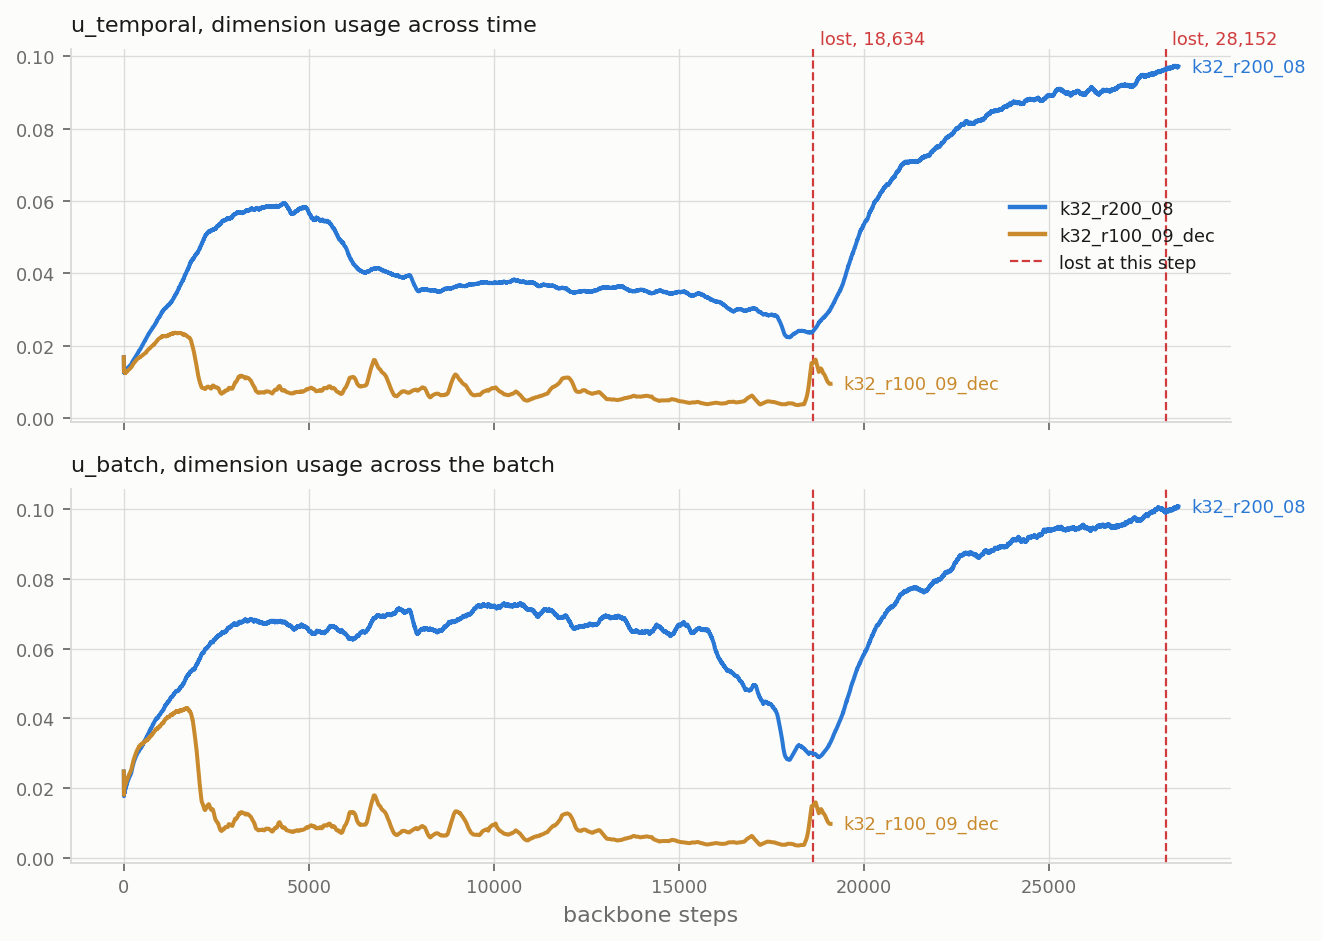
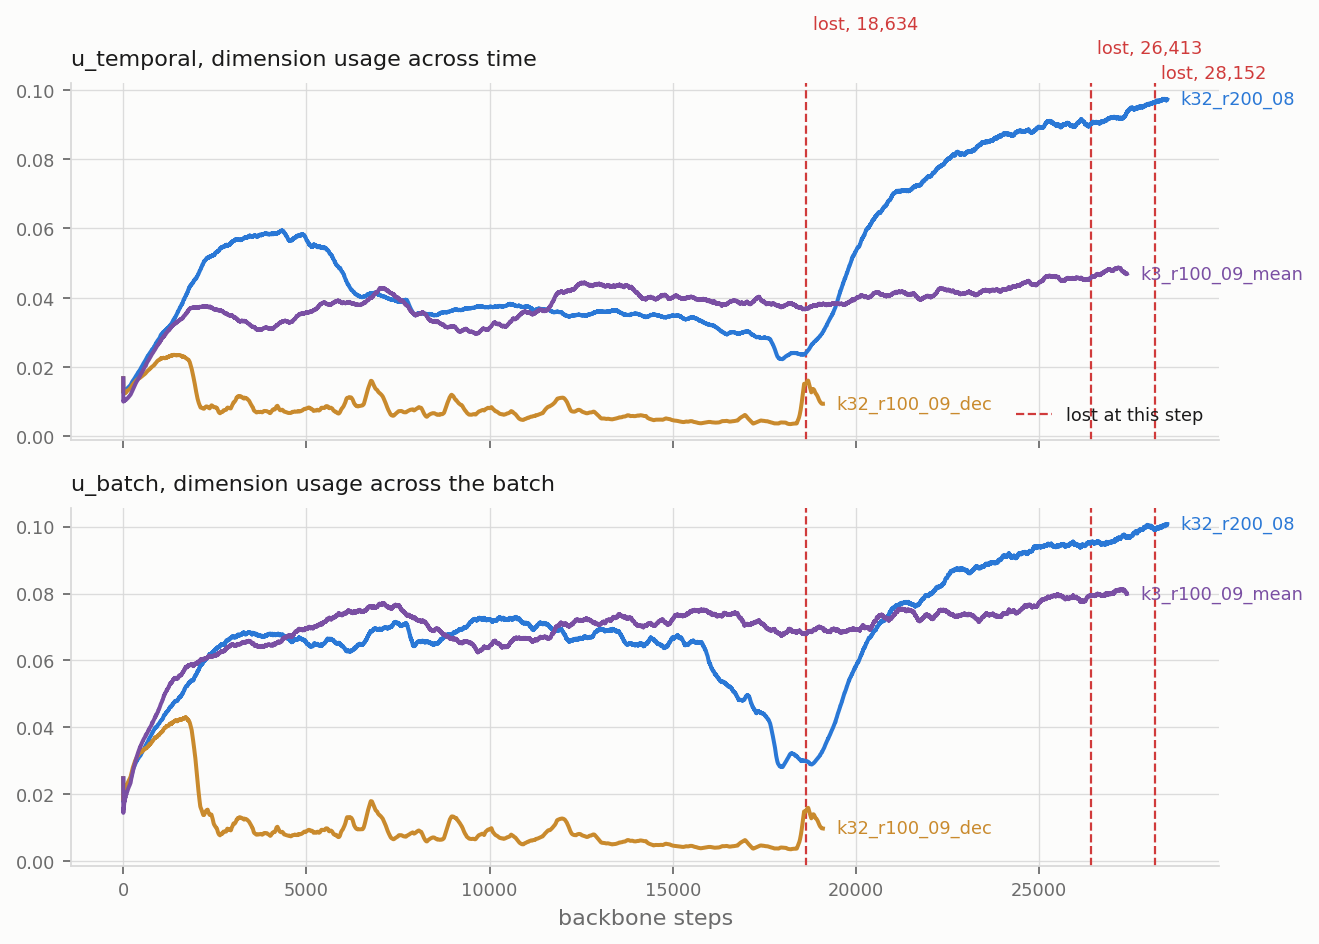
report(#412): the third stopped arm joins the dimension-usage figure
`k3_r100_09_mean` is the pass-2 arm that moves the reduction alone, and the
guard stopped it at 26,413 steps. It now draws beside the two k = 32 arms.

WHAT IT SHOWS. The three take three different paths. `k32_r100_09_dec` falls
to near-zero usage, `k32_r200_08` rises, and `k3_r100_09_mean` holds a
mid-range value in both statistics to its stop. So `u_temporal` and `u_batch`
do not tell you which arm loses the task.

`plot_lost_uniformity.py` took its arms from a hard-coded pair at k = 32.
The list now carries the k per arm. The figure also dropped its arm key,
which sat over a direct label, and it stacks the stop-step labels that
collided.

diff --git a/reports/2026-09-06_moirai_small_size/scripts/plot_lost_uniformity.py b/reports/2026-09-06_moirai_small_size/scripts/plot_lost_uniformity.py
@@ -1,7 +1,7 @@
 #!/usr/bin/env python3
-"""The dimension usage of the two stopped arms, step by step.
+"""The dimension usage of the stopped arms, step by step.
 
-WHY THIS FIGURE EXISTS. The two arms the guard stopped do not share one
+WHY THIS FIGURE EXISTS. The arms the guard stopped do not share one
 mechanism, and that claim is a direction of travel: `k32_r200_08` spreads its
 latents while `k32_r100_09_dec` collapses them. Four end-state numbers hide
 the trajectory, so this figure draws it.
@@ -9,8 +9,12 @@ the trajectory, so this figure draws it.
 WHAT IT DRAWS. `u_temporal` and `u_batch` against the backbone step, one
 panel per statistic, one curve per stopped arm, as the 200-row rolling mean
 `results/lost_arm_terms.txt` prints. A dashed line marks the step where the
-guard fired on each arm. The two arms differ in the treatment, not the depth,
-so each takes its own categorical hue and a direct label.
+guard fired on each arm. Each arm takes its own categorical hue and a direct
+label.
+
+`k3_r100_09_mean` is the third curve. It is the pass-2 arm that moves the
+reduction alone, and the guard stopped it too, so the figure asks whether a
+k = 3 arm under `mean` falls the way a k = 32 arm does.
 
 Usage:  plot_lost_uniformity.py [--root <checkpoint root>] [--out <png>]
 """
@@ -31,7 +35,10 @@ import plot_style as S  # noqa: E402
 HERE = Path(__file__).resolve().parent
 STUDY = HERE.parent
 ROOT = "/home/jupyter/checkpoints_backup/cf-412"
-ARMS = (("k32_r200_08", "#2a78d6"), ("k32_r100_09_dec", "#c98a2d"))
+# `(arm, k, colour)`. The k picks the arm's losses CSV under the root.
+ARMS = (("k32_r200_08", "32", "#2a78d6"),
+        ("k32_r100_09_dec", "32", "#c98a2d"),
+        ("k3_r100_09_mean", "3", "#7a4fa3"))
 PANELS = (("u_temporal", "u_temporal, dimension usage across time"),
           ("u_batch", "u_batch, dimension usage across the batch"))
 WINDOW = 200
@@ -58,8 +65,8 @@ def main():
 
     lost_at = guard_steps(args.verdicts)
     runs = []
-    for arm, colour in ARMS:
-        paths = S.losses_csvs(args.root, arm, "32")
+    for arm, k, colour in ARMS:
+        paths = S.losses_csvs(args.root, arm, k)
         if not paths:
             continue
         df = pd.read_csv(paths[0])
@@ -85,19 +92,22 @@ def main():
                            linestyle="--", zorder=2)
         ax.set_title(title, color=S.INK, fontsize=10, loc="left", pad=8)
         S.tidy(ax)
-    for arm, colour, df, fired in runs:
-        if fired is not None:
-            axes[0].annotate(f"lost, {fired:,}", (fired, 1.0),
-                             xycoords=("data", "axes fraction"), xytext=(3, 2),
-                             textcoords="offset points", fontsize=8,
-                             color=S.LOST, annotation_clip=False)
+    # The lost-step labels sit on one line and two of them collided. Stack
+    # them by the step they mark, so a later arm prints under an earlier one.
+    for rank, (arm, colour, df, fired) in enumerate(
+            sorted((r for r in runs if r[3] is not None), key=lambda r: r[3])):
+        axes[0].annotate(f"lost, {fired:,}", (fired, 1.0),
+                         xycoords=("data", "axes fraction"),
+                         xytext=(3, 2 + 11 * (len(runs) - 1 - rank)),
+                         textcoords="offset points", fontsize=8,
+                         color=S.LOST, annotation_clip=False)
     axes[-1].set_xlabel("backbone steps")
-    for arm, colour, _, _ in runs:
-        axes[0].plot([], [], color=colour, linewidth=2.0, label=arm)
+    # NO ARM KEY. Every curve carries a direct label at its right end, and
+    # the key sat over one of them. The dashed rule is the only entry left.
     axes[0].plot([], [], color=S.LOST, linewidth=1.0, linestyle="--",
                  label="lost at this step")
     axes[0].legend(frameon=False, fontsize=8, labelcolor=S.INK,
-                   loc="center right")
+                   loc="lower right")
     fig.tight_layout()
 
     Path(args.out).parent.mkdir(parents=True, exist_ok=True)

diff --git a/reports/2026-09-06_moirai_small_size/moirai_small_size.md b/reports/2026-09-06_moirai_small_size/moirai_small_size.md
@@ -71,14 +71,20 @@ and the inheritance table below shows the confound.
 1.4404 at 5.6e-4 against 1.4629 at 1e-3, a gap of 0.35 bands. The two are not
 ranked. The rate gains 2.6 bands on k = 3 and nothing here.
 
-## One lost arm falls to near-zero dimension usage, the other rises
+## The three stopped arms take three different paths
 
-![the dimension usage of the two lost arms](plots/lost_uniformity.png)
+![the dimension usage of the three stopped arms](plots/lost_uniformity.png)
 
-`u_temporal` and `u_batch` of the two lost arms, 200-row rolling mean, with
-the lost step dashed. The two statistics measure dimension usage of the
+`u_temporal` and `u_batch` of the three stopped arms, 200-row rolling mean,
+with the stop step dashed. The two statistics measure dimension usage of the
 latents across time and across the batch (`src/metrics.py:179` and
 `src/metrics.py:184`).
+
+`k32_r100_09_dec` falls to near-zero usage and `k32_r200_08` rises.
+`k3_r100_09_mean` does neither. From step 2,000 to its stop at 26,413 its
+`u_temporal` stays between 0.0296 and 0.0464 and its `u_batch` between 0.0590
+and 0.0799, and both end near the top of that range. So these two statistics
+do not tell you which arm loses the task.
 
 `L_rep` carries the contrastive negatives. `k32_r200_08` carries it at weight
 1.0 for all 28,500 logged steps, so the decay is not required to lose the
